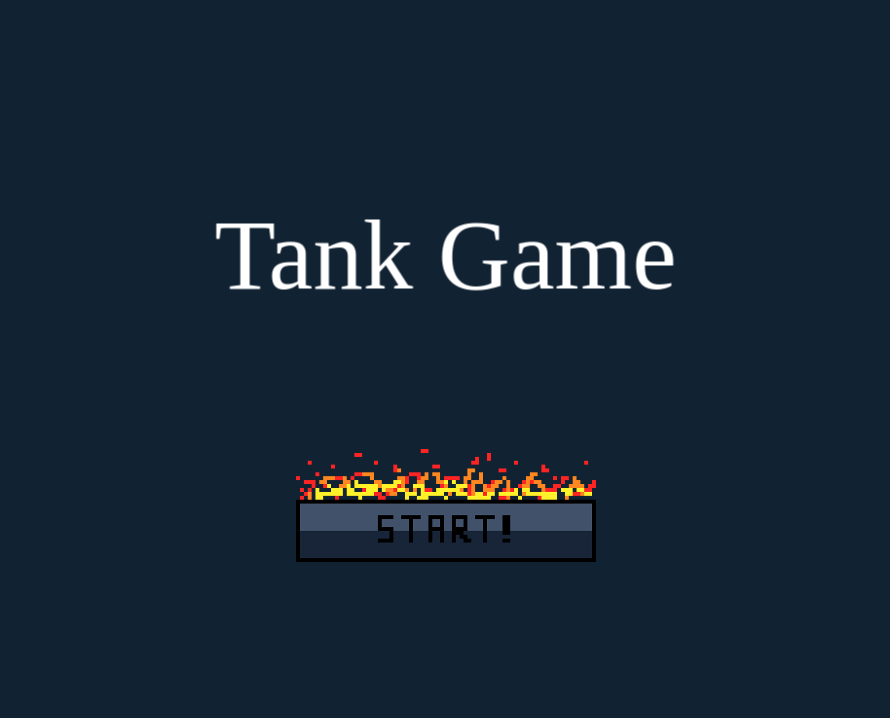
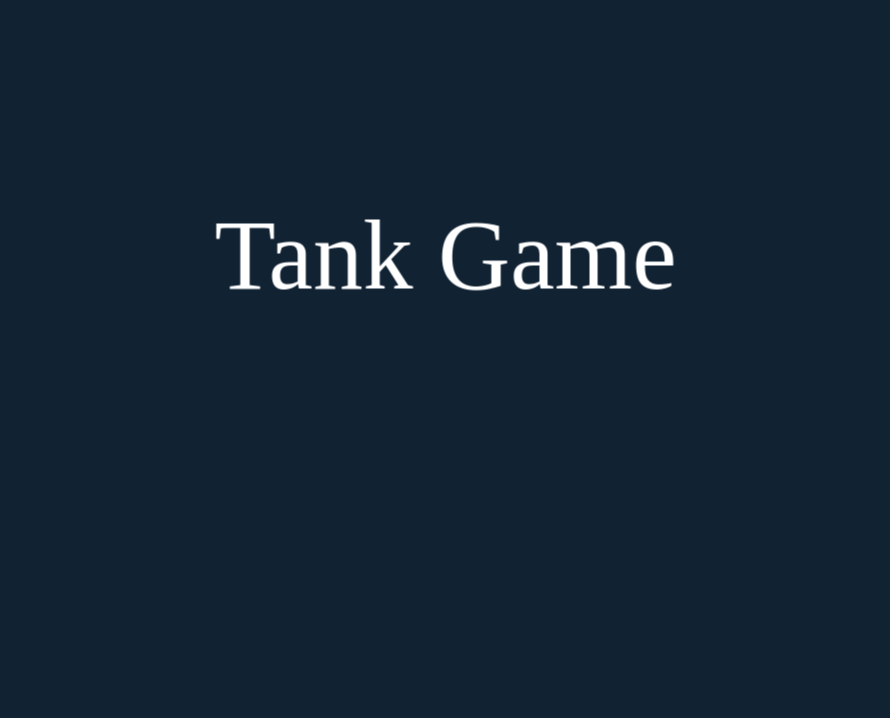
Structure refactirung

Changed region(s): [[0.3337, 0.6435, 0.6674, 0.7967]]

diff --git a/src/pixi/Scene.ts b/src/pixi/Scene.ts
@@ -1,26 +1,31 @@
 import { Application, Container, DisplayObject, Sprite, Texture } from 'pixi.js'
 
+type Resizer = {
+  center: {
+    x: number;
+    y: number;
+  }
+}
 export class Scene extends Application {
+  private resizer: Resizer
+
   constructor (private width: number, private height: number) {
     super()
     this.width = width
     this.height = height
-    this.view.width = this.width
-    this.view.height = this.height
+    this.view.width = this.screen.width = this.width
+    this.view.height = this.screen.height = this.height
+    this.getSizes()
     document.body.append(this.view)
   }
 
-  public showLoadingScreen (screen: Texture) {
-    const loadingScreen = new Sprite(screen)
-    const container = new Container()
-    // loadingScreen.width = this.view.width
-    // loadingScreen.height = this.view.height
-    // loadingScreen.anchor.set(0.5)
-    // loadingScreen.x = this.width / 2
-    // loadingScreen.y = this.height / 2
-    console.log(loadingScreen)
-    container.addChild(loadingScreen)
-    this.append(container)
+  private getSizes () {
+    this.resizer = {
+      center: {
+        x: this.width / 2,
+        y: this.height / 2
+      }
+    }
   }
 
   private append (child: DisplayObject) {

diff --git a/src/screen/LoadingScreen.ts b/src/screen/LoadingScreen.ts
@@ -1,0 +1,41 @@
+import { Container, Sprite, Texture } from 'pixi.js'
+import { resizer, WIDTH, HEIGHT } from '../constants/sizes'
+import { Events } from '../enums/events'
+
+export default class LoadingScreen extends Container {
+  private screen = new Sprite()
+  private button = new Sprite()
+
+  constructor () {
+    super()
+  }
+
+  public show (screenTexture: Texture, buttonTexture: Texture) {
+    this.addScreen(screenTexture)
+    this.addButton(buttonTexture)
+  }
+
+  private addScreen (texture: Texture) {
+    this.screen.texture = texture
+    const container = new Container()
+    this.screen.width = WIDTH
+    this.screen.height = HEIGHT
+    container.addChild(this.screen)
+    this.addChild(container)
+  }
+
+  private addButton (texture: Texture) {
+    this.button.texture = texture
+    const container = new Container()
+    this.button.anchor.set(0.5)
+    this.button.x = resizer.center.x
+    this.button.y = resizer.center.y + this.button.height * 1.5
+    this.button.interactive = true
+    this.button.cursor = 'pointer'
+    this.button.on('pointerdown', () => {
+      this.emit(Events.START)
+    })
+    container.addChild(this.button)
+    this.addChild(container)
+  }
+}

diff --git a/src/pixi/Game.ts b/src/pixi/Game.ts
@@ -1,6 +1,8 @@
 import { DisplayObject, Sprite } from 'pixi.js'
 import Loader from './Loader'
 import { Scene } from './Scene'
+import LoadingScreen from '../screen/LoadingScreen'
+import { Events } from '../enums/events'
 
 const WIDTH = 1024
 const HEIGHT = 768
@@ -8,14 +10,18 @@ const HEIGHT = 768
 export default class Game {
   private scene = new Scene(WIDTH, HEIGHT)
   private loader = new Loader(this.init.bind(this))
+  private loadingScreen = new LoadingScreen()
 
   constructor () {
-    console.log(this.scene)
+    console.log(1)
   }
 
   private init () {
-    this.scene.showLoadingScreen(this.loader.getTexture('loading-screen'))
-    this.scene.showLoadingScreen(this.loader.getTexture('start-button'))
+    this.loadingScreen.show(this.loader.getTexture('loading-screen'), this.loader.getTexture('start-button'))
+    this.append(this.loadingScreen)
+    this.loadingScreen.on(Events.START, () => {
+      console.log('Start the Game!')
+    })
   }
 
   private append (child: DisplayObject) {

diff --git a/src/constants/sizes.ts b/src/constants/sizes.ts
@@ -1,0 +1,11 @@
+export { Resizer } from '../types/sizes'
+
+export const WIDTH = 1024
+export const HEIGHT = 768
+
+export const resizer = {
+  center: {
+    x: WIDTH / 2,
+    y: HEIGHT / 2
+  }
+}

diff --git a/src/types/sizes.ts b/src/types/sizes.ts
@@ -1,0 +1,6 @@
+export type Resizer = {
+  center: {
+    x: number;
+    y: number;
+  }
+}

diff --git a/src/enums/events.ts b/src/enums/events.ts
@@ -1,0 +1,3 @@
+export enum Events {
+  START = 'start_game'
+}
